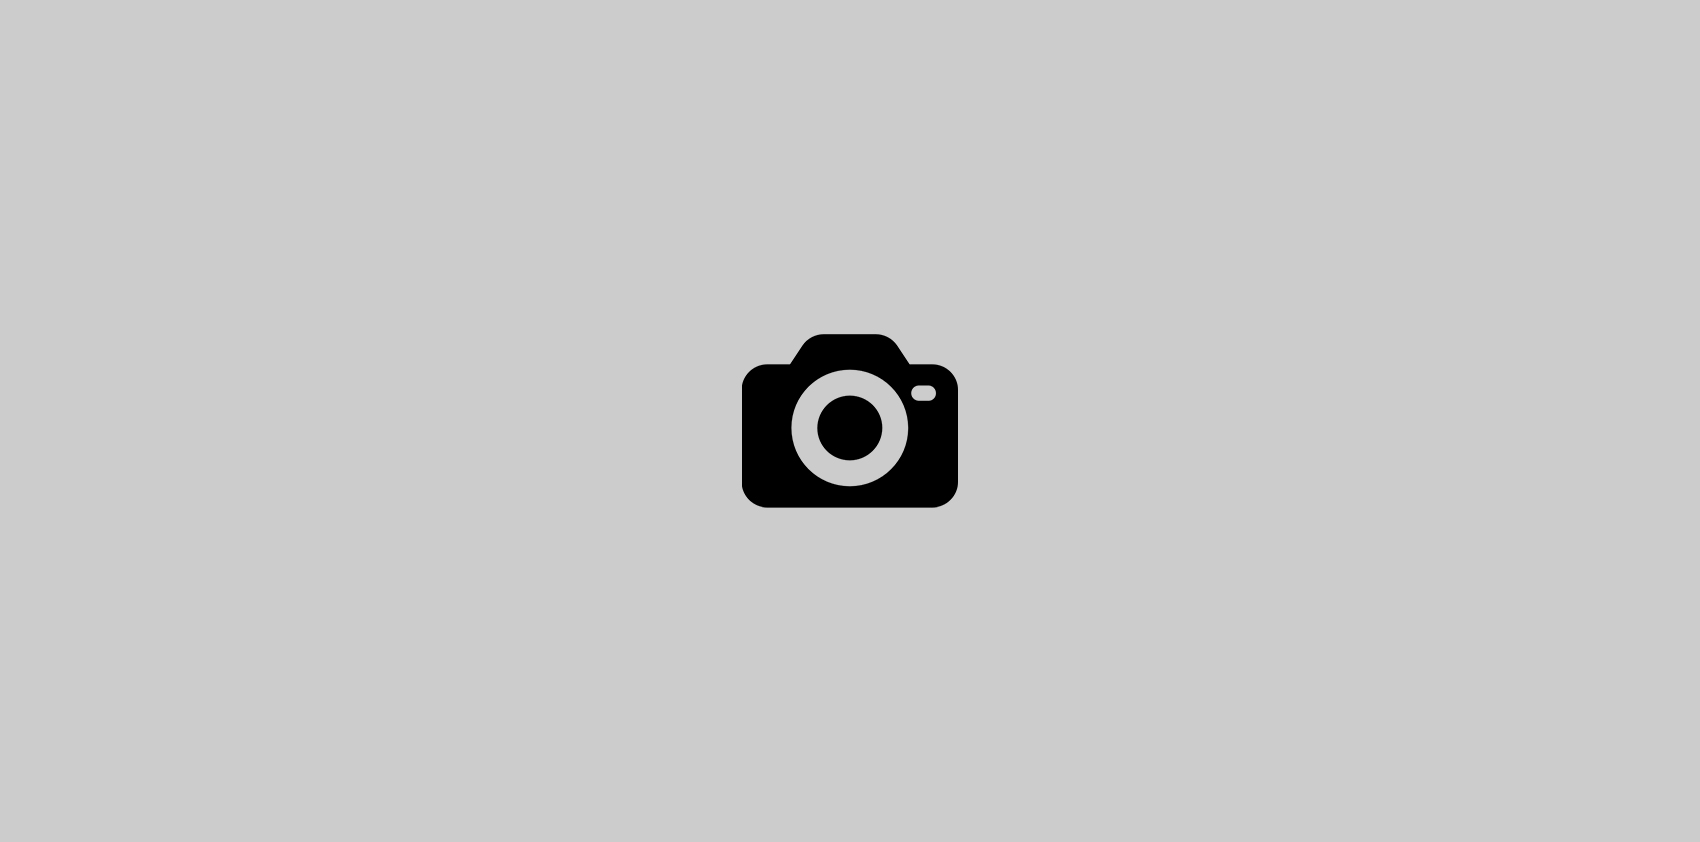
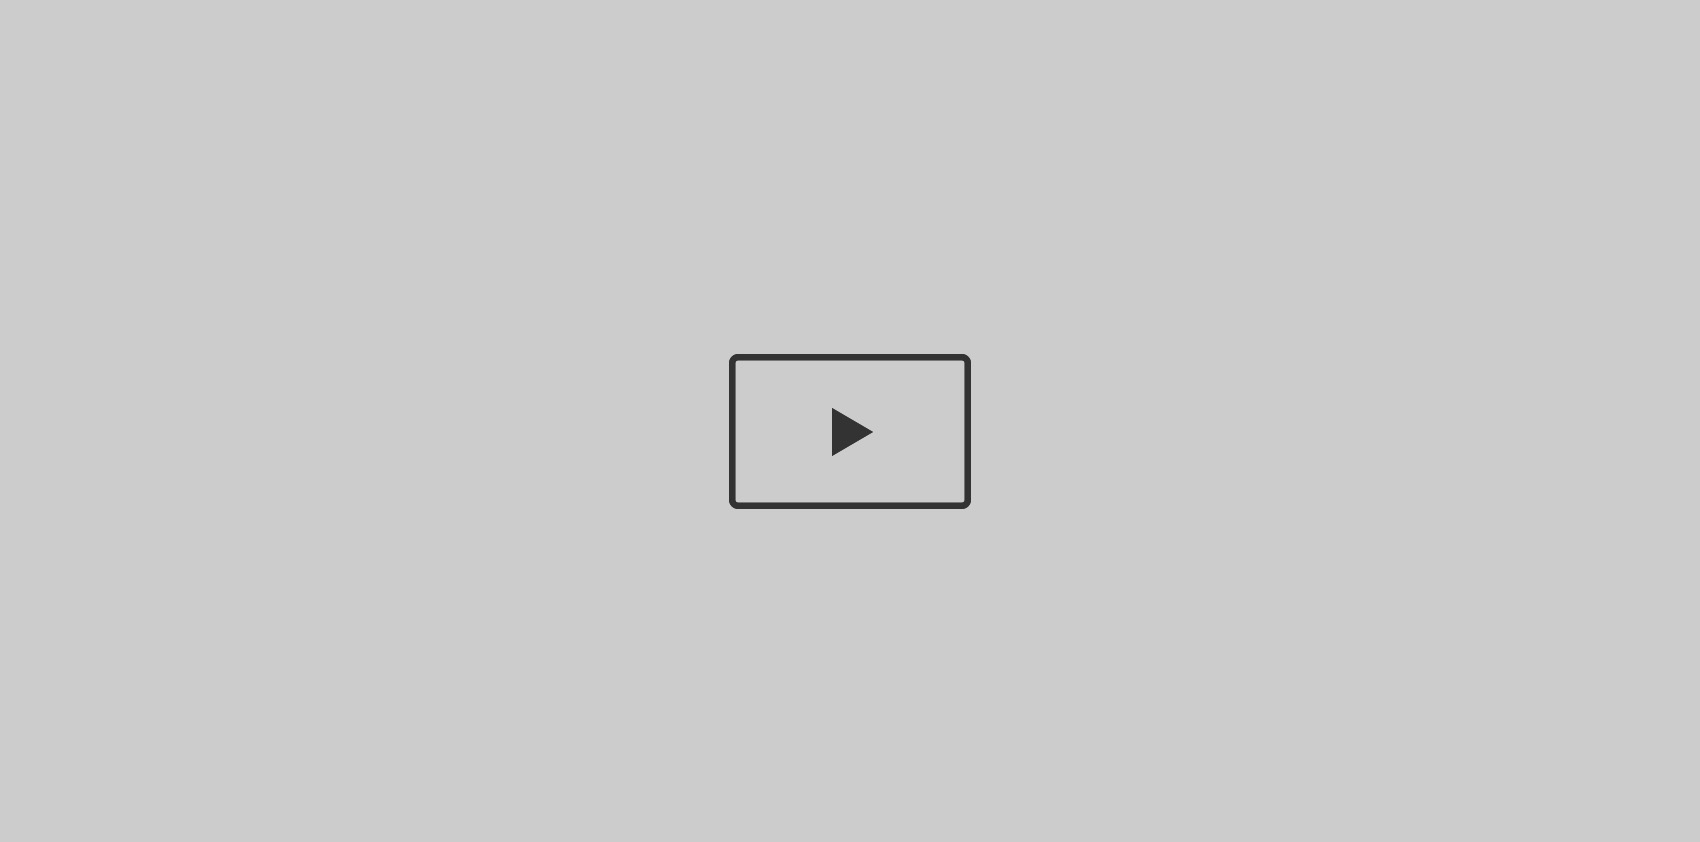
thumbnail

Changed region(s): [[0.4053, 0.3705, 0.5924, 0.6176]]

diff --git a/src/pages/index.jsx b/src/pages/index.jsx
@@ -16,6 +16,7 @@ import AnimationText from "/src/components/AnimationText"
 import SpotMap from "/src/components/SpotMap"
 
 import kv from "/src/images/movie/movie02.mp4"
+import thumbnail from "/src/images/top/sample.jpg"
 import logo from "/src/images/icon/logo.png"
 import sample from "/src/images/top/sample.jpg"
 
@@ -79,7 +80,7 @@ const Page = ({}) => {
       <div className={style.topSec}>
         <div className={style.top_visual}>
           {/* <img src={sample} className={style.kv} /> */}
-          <video loop muted autoPlay>
+          <video loop muted autoPlay poster={thumbnail}>
             <source src={kv} type="video/mp4" />
             お使いのブラウザはvideoタグに対応していません。
           </video>
